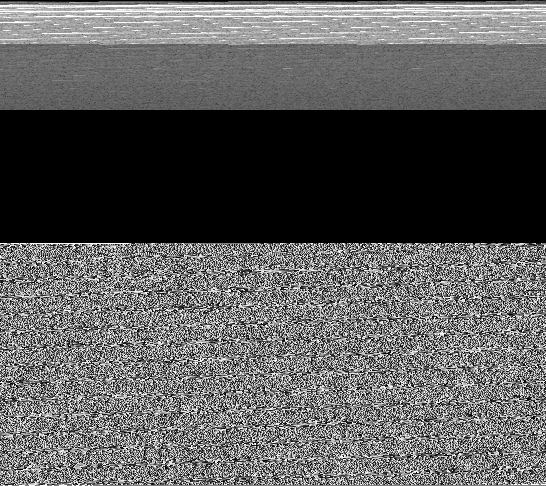
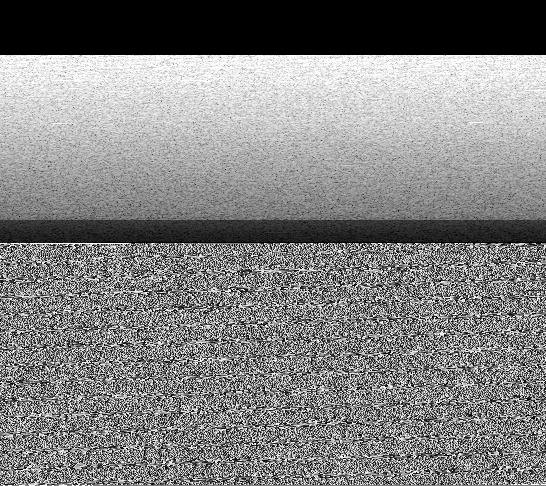
sr fix

diff --git a/Ny_forbedret_version/Equalization.py b/Ny_forbedret_version/Equalization.py
@@ -4,10 +4,14 @@ import soundfile as sf
 import librosa
 from Equalloudness_transformation import infoFunc
 
+magnitude_db_max, magnitude_db_min, samplerate, D = infoFunc()
+
+sr = samplerate
 low = 0.7
 mid = 0.9
 upper = 1.4
 high = 1.3
+
 def mainfunc():
     def apply_equalization(image_path, eq_settings, sr, output_path):
         """
@@ -62,7 +66,7 @@ def mainfunc():
         (0, 200): low,  # low frequencies (bass)
         (200, 2000): mid,  # mid frequencies
         (2000, 5000): upper,  # upper mid frequencies
-        (5000, 11025): high  # high frequencies (treble)
+        (5000, 20000): high  # high frequencies (treble)
     }
     apply_equalization(image_path, eq_settings, sr, output_path)
 

diff --git a/Ny_forbedret_version/Equalloudness_transformation.py b/Ny_forbedret_version/Equalloudness_transformation.py
@@ -8,10 +8,9 @@ from scipy.interpolate import interp1d
 audio_path = "numero 1.wav"
 Path = "combined_image.png"
 
-
 def infoFunc():
 
-    global magnitude_db_max
+    global magnitude_db_max, sr
 
     def reshape_to_custom(array, column_length):
         """ Reshape the array to have a fixed number of columns and calculate rows accordingly. """

diff --git a/Ny_forbedret_version/all_filters.py b/Ny_forbedret_version/all_filters.py
@@ -90,6 +90,7 @@ def process_and_save_filtered_image(filter_type, cutoff_freqs, output_filename):
 
 
 # Parameters
+sr = 22050
 low_freq = 11025# Low cutoff frequency in Hz
 high_freq = 0  # High cutoff frequency in Hz
 notch_freq = 12000  # Notch frequency in Hz
